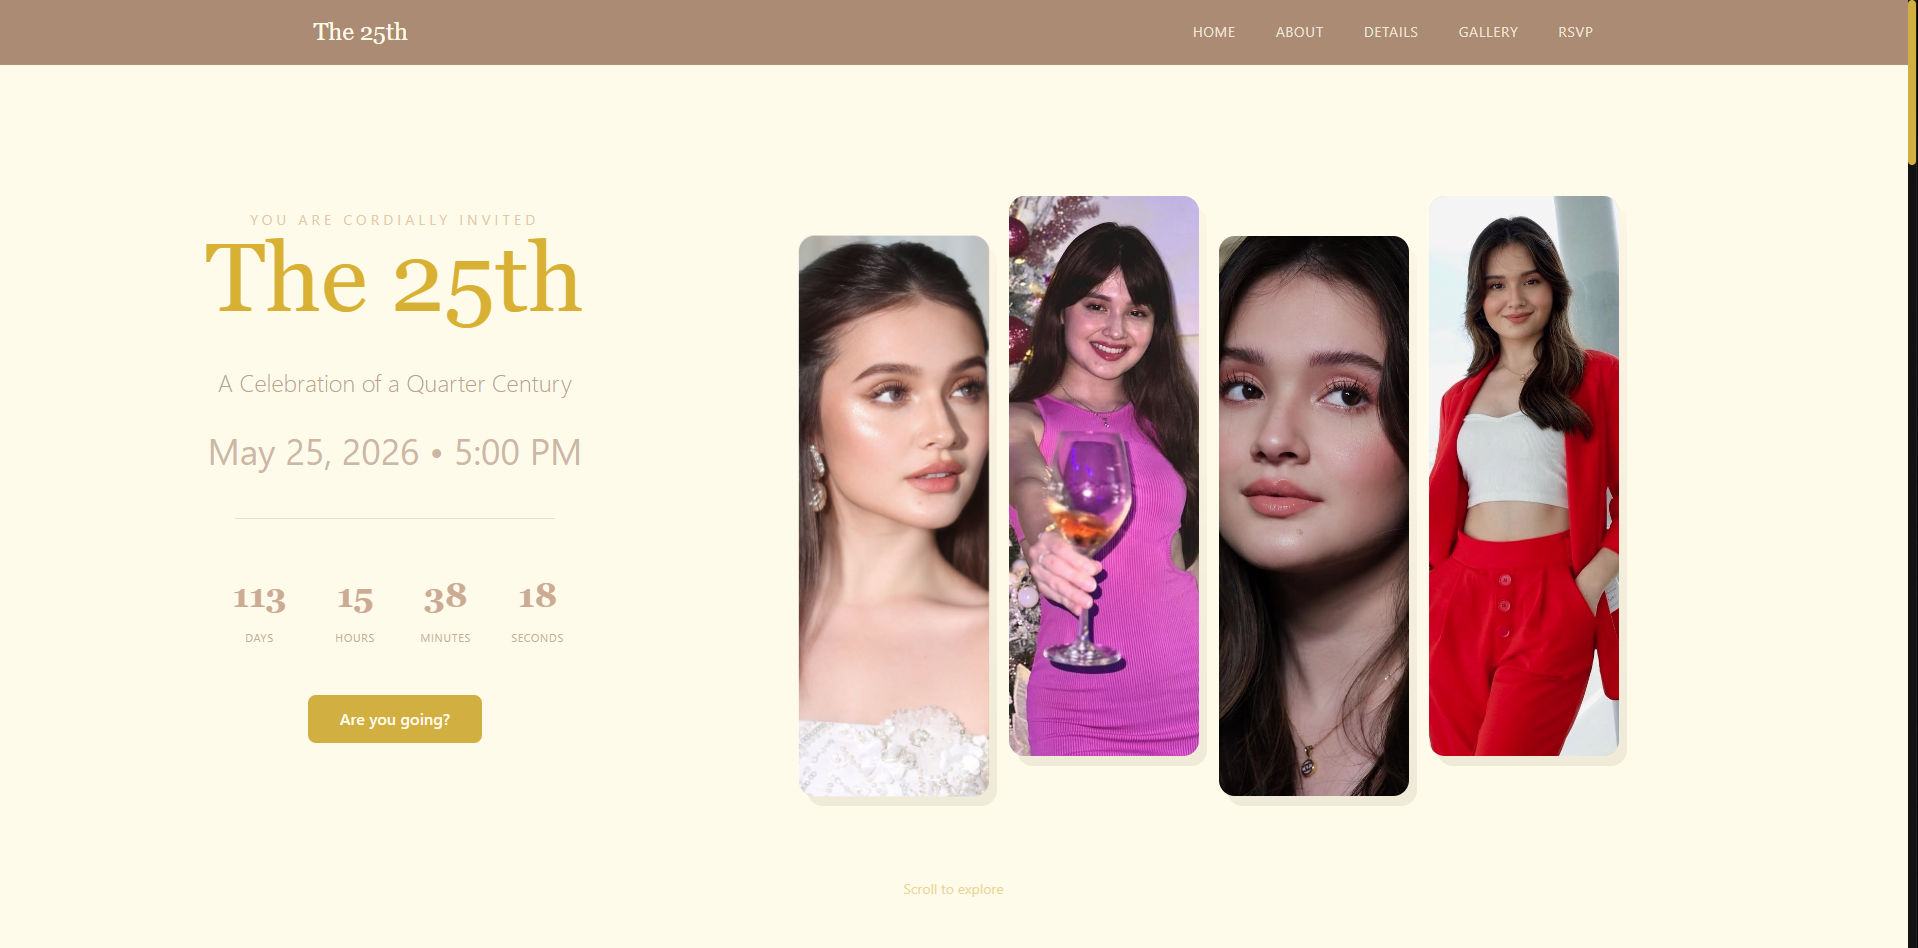
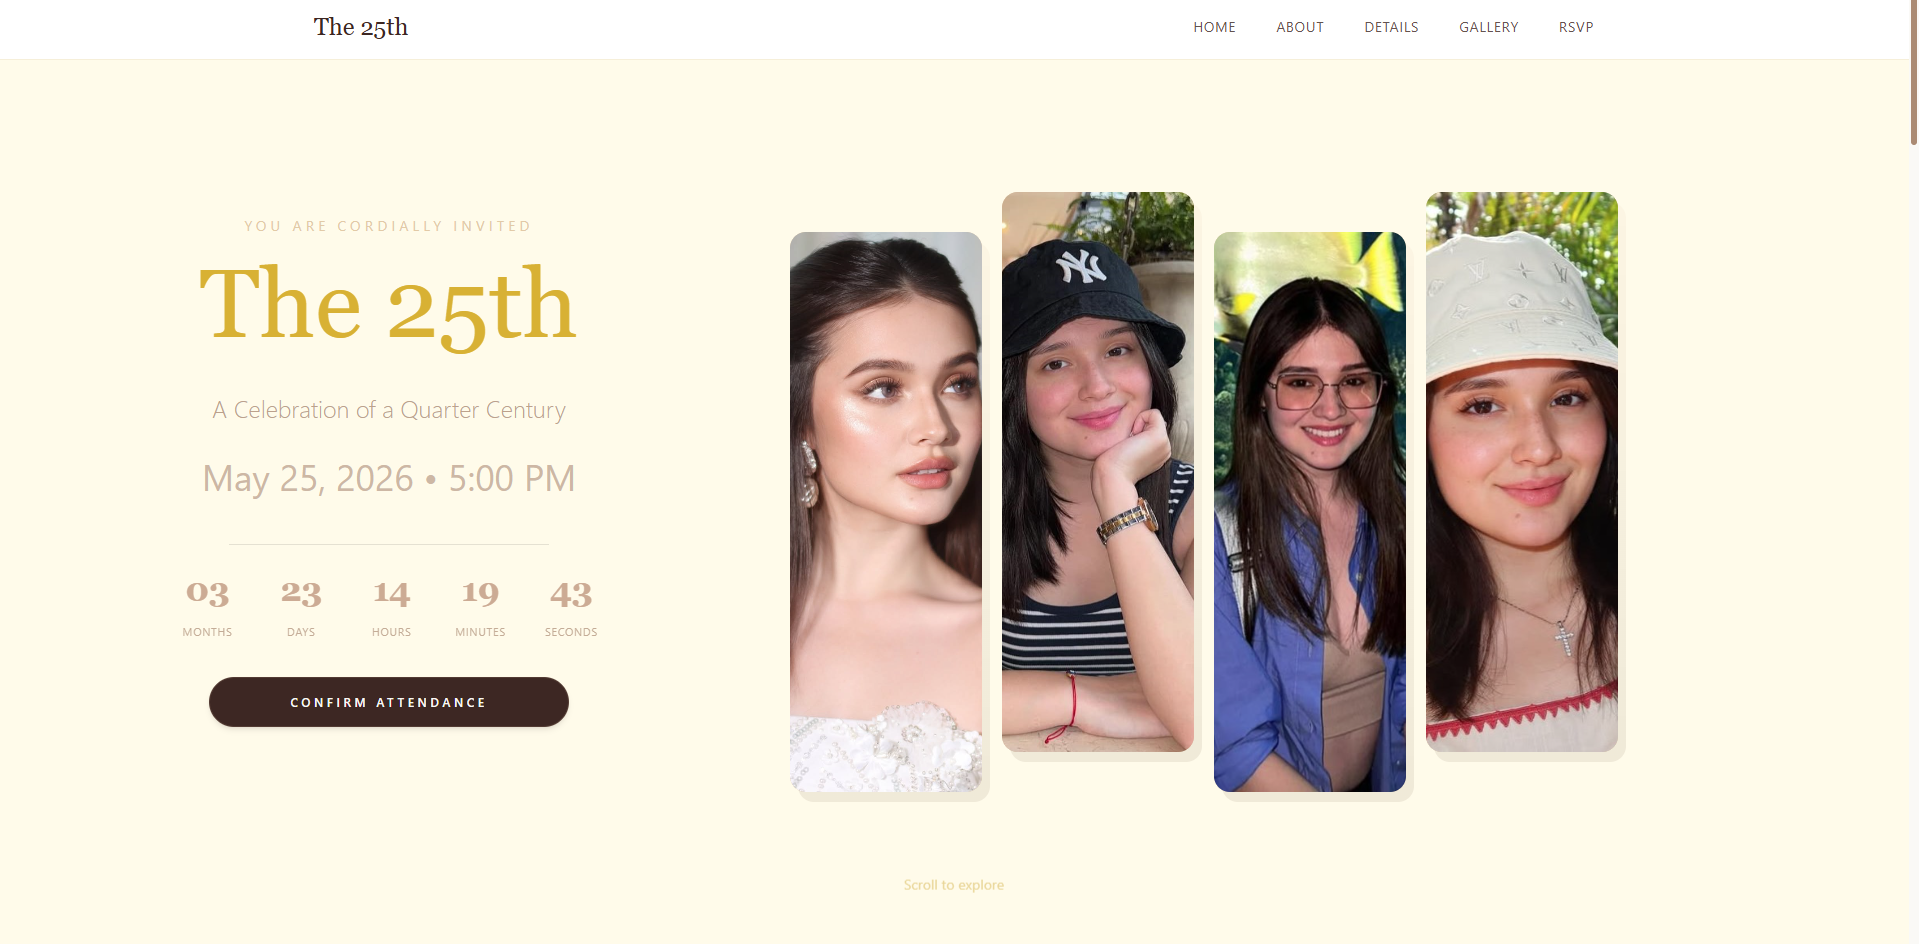
added: Amara on the project

diff --git a/src/app/components/Projects.tsx b/src/app/components/Projects.tsx
@@ -19,9 +19,8 @@ const projects = [
     link: "https://marcimetzgerrealtor.netlify.app",
     gitHub: "https://github.com/mikelojeda25/Marci-Realtor-Website",
   },
-  /*
+
   {
-    
     title: "Amara Turns 25",
     description:
       "A simple yet elegant RSVP website for 'The 25th' birthday celebration. Designed for guests to seamlessly explore event details and confirm their attendance.",
@@ -29,7 +28,7 @@ const projects = [
     link: "https://amaraturns25.netlify.app/",
     gitHub: "https://github.com/mikelojeda25/Birthday-RSVP",
   },
-  */
+
   {
     title: "Wedding Website",
     description:
